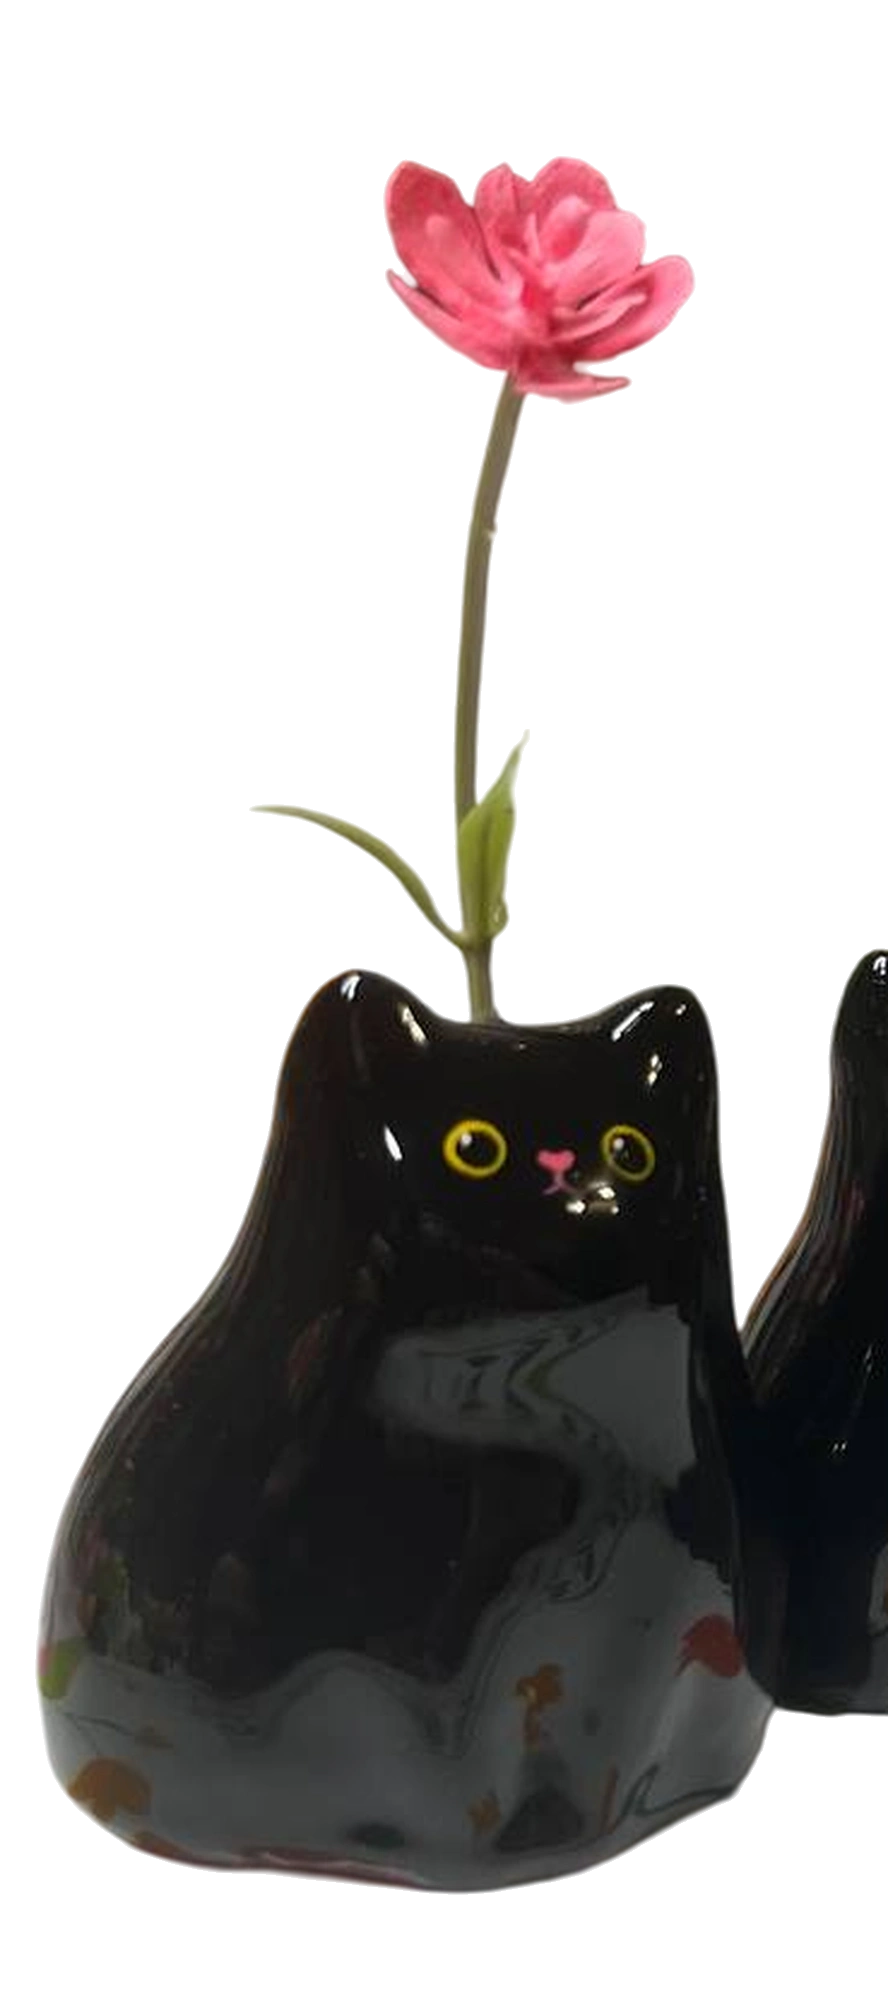
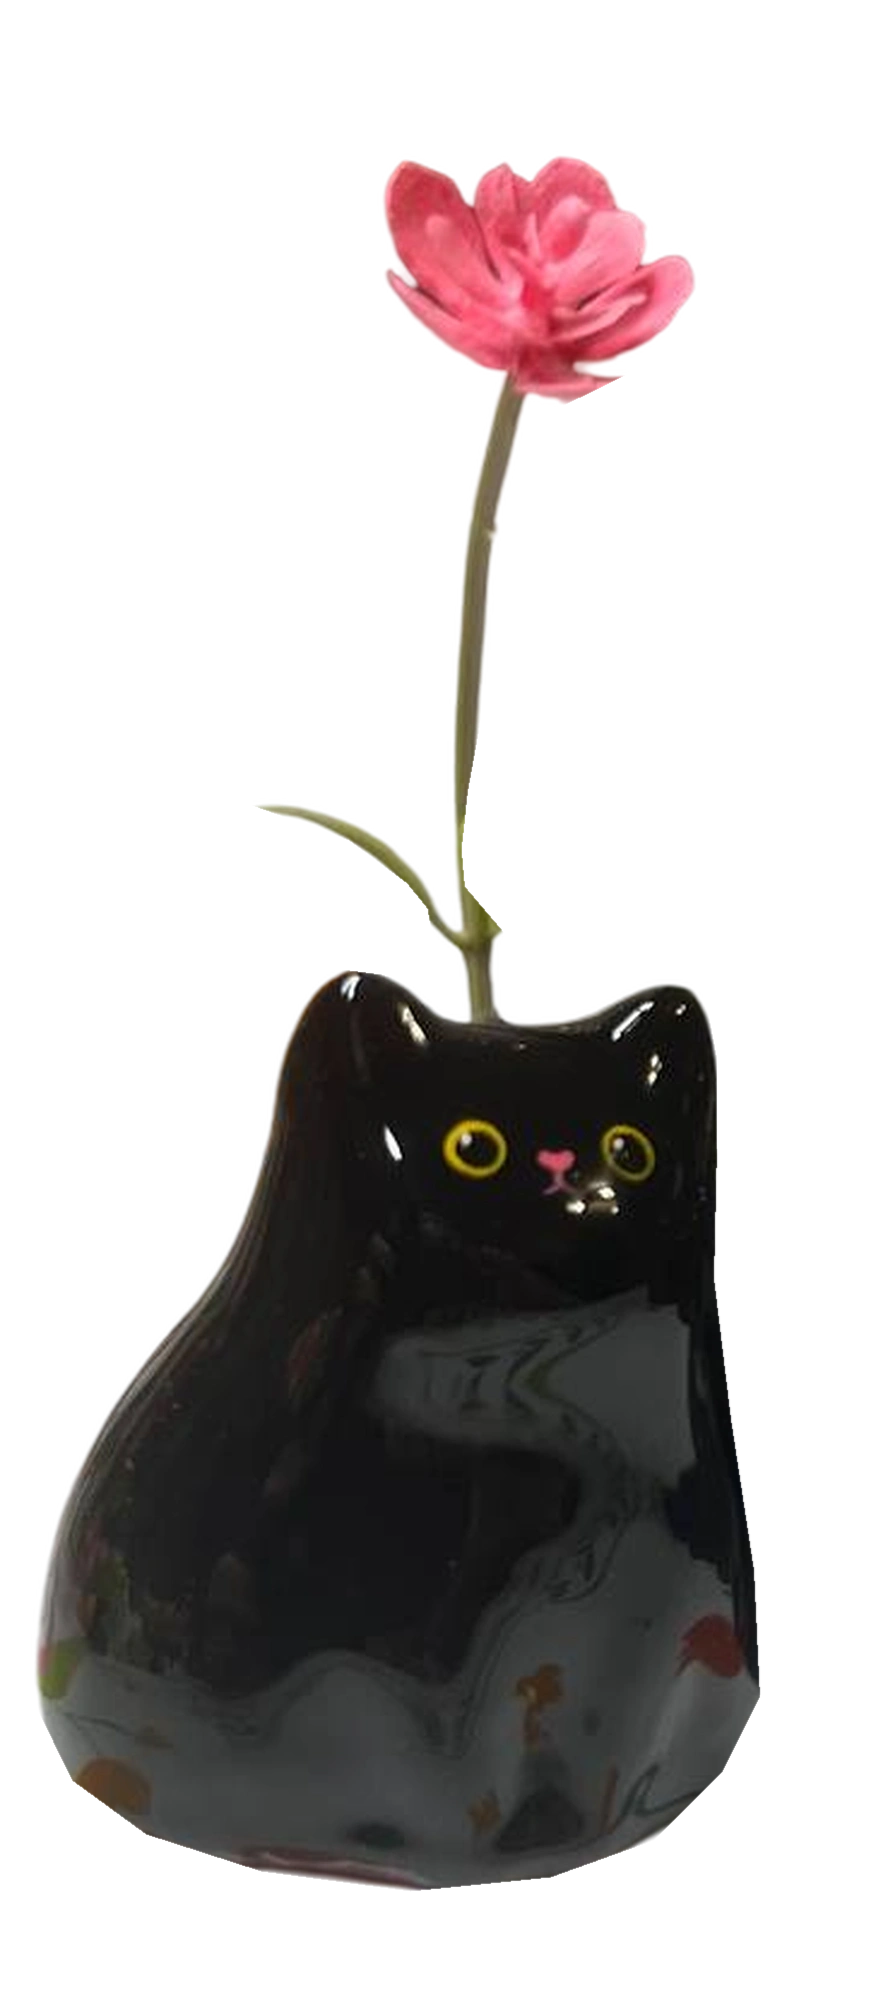
Fit hero to screen height and clean left cat cutout

diff --git a/styles.css b/styles.css
@@ -82,3 +82,18 @@ html,body{overflow-x:clip}
 
 @media(min-width:901px){.hero-cat.yellow{left:calc(1072 * var(--u))}}
 
+
+/* Fit both viewport dimensions, keeping the entire composition above the next section. */
+@media(min-width:901px){
+ .hero{height:clamp(640px,calc(100svh - 92 * min(1.5px,100vw / 1440)),1100px)}
+ .hero-copy{top:20px;gap:16px}
+ .hero-copy h1{font-size:clamp(64px,7.08vw,110px)}
+ .hero-copy .hero-intro{font-size:clamp(18px,1.53vw,24px)}
+ .hero-cats{--u:min(1.5px,calc(var(--viewport-width,100vw) / 1440),calc((max(640px,min(1100px,100svh - 92 * min(1.5px,100vw / 1440))) - 260px) / 756));width:calc(1440 * var(--u));height:calc(980 * var(--u));left:50%;top:auto;bottom:20px;transform:translateX(-50%);margin:0}
+}
+
+@media(min-width:901px){.hero-copy .hero-intro{max-width:720px}}
+
+
+@media(min-width:901px) and (max-height:850px){.hero-copy h1{font-size:clamp(56px,6vw,88px)}.hero-copy .hero-intro{font-size:18px;max-width:440px}}
+

diff --git a/index.html b/index.html
@@ -8,8 +8,8 @@
   <meta name="description" content="Фигурки котиков, жабок и любимых героев от Даши, автора CDA. Окрас из каталога или по фотографии вашего кота. Доставка СДЭКом по России.">
   <link rel="icon" href="assets/d-imgCda.svg" type="image/svg+xml">
   <link rel="stylesheet" href="assets/fonts/fonts.css">
-  <link rel="stylesheet" href="styles.css?v=20261026-composition-135">
-  <script src="script.js?v=20261026-composition-135" defer></script>
+  <link rel="stylesheet" href="styles.css?v=20261026-viewport-fit">
+  <script src="script.js?v=20261026-viewport-fit" defer></script>
 </head>
 <body>
 <a class="skip-link" href="#catalog">Перейти к фигуркам</a>
